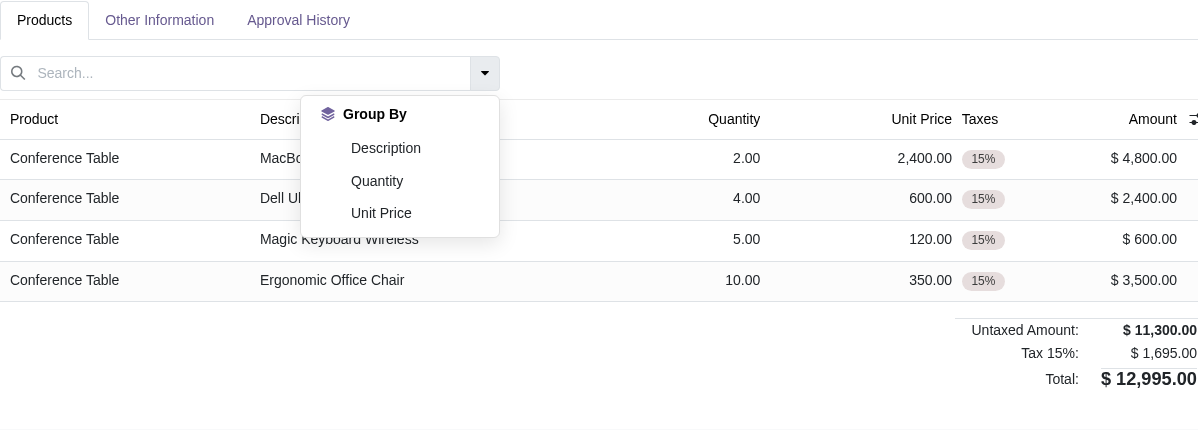
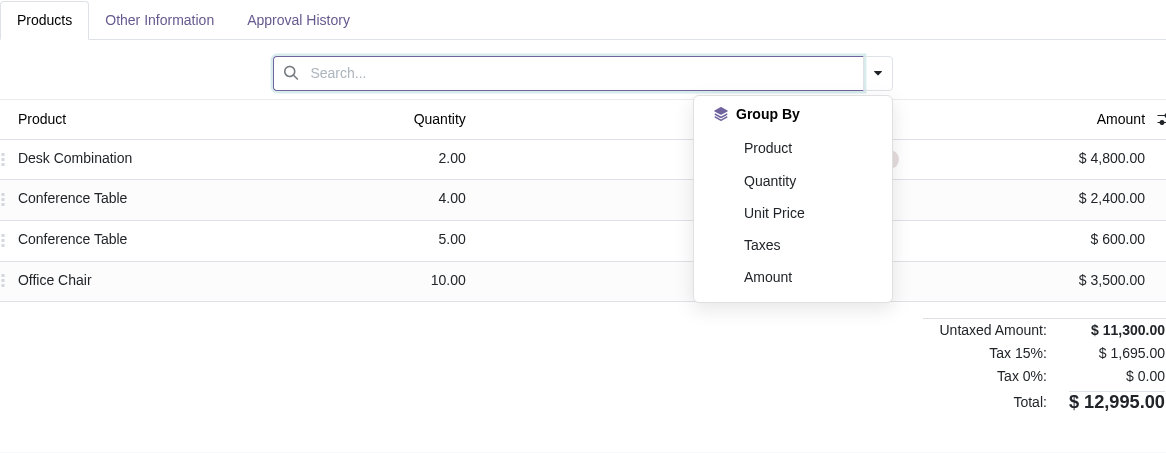
[DOC] ae_x2many_search: update screenshots, description index.html, and README.rst
- Recapture all 4 UI description screenshots (main_screenshot, search_bar,
  group_by, section_note) reflecting the centered search bar, dynamic
  optional columns sync, and clean relational grouping labels.
- Update static/description/index.html to highlight the centered control
  panel layout, automatic visible column discovery, and dynamic sync.
- Update README.rst with centered layout documentation, comma-separated
  and list options, dynamic column synchronization, and relational object
  display name handling.

diff --git a/ae_x2many_search/static/description/index.html b/ae_x2many_search/static/description/index.html
@@ -29,7 +29,7 @@
         <h2 class="oe_slogan fw-bold" style="color:#017e84;">X2many Search Bar</h2>
         <h3 class="oe_slogan">
             Instantly search, filter and group records inside any
-            <code>one2many</code> or <code>many2many</code> list — no page reload needed.
+            <code>one2many</code> or <code>many2many</code> list — with centered search bar and zero server round-trips.
         </h3>
         <div class="oe_demo oe_picture oe_screenshot mt-4">
             <img src="images/main_screenshot.png" alt="X2many Search Bar overview" class="oe_screenshot"/>
@@ -54,7 +54,7 @@
                     <h4 class="mt-3"><strong>Smart Search</strong></h4>
                     <p class="text-secondary text-justify">
                         Type a keyword and pick a field from the dropdown to scope the search.
-                        Matched records appear instantly with a facet chip in the search bar.
+                        Matched records appear instantly with a facet chip in the centered search bar.
                         Search across <em>Char</em>, <em>Text</em>, <em>Many2one</em>, numbers and more.
                     </p>
                 </div>
@@ -66,20 +66,20 @@
                     <h4 class="mt-3"><strong>Client-side Group By</strong></h4>
                     <p class="text-secondary text-justify">
                         Click the caret button next to the search bar to open the Group By menu.
-                        Records are sorted, grouped and collapsed by default so you can focus
-                        on the groups that matter. Click any group header to expand or collapse it.
+                        Records are sorted and grouped by visible fields with clean display names
+                        and collapsed accordions. Click any header to expand or collapse.
                     </p>
                 </div>
             </div>
 
             <div class="col-md-4 text-center">
                 <div class="p-3">
-                    <span class="fa fa-tags fa-3x" style="color:#017e84;"></span>
-                    <h4 class="mt-3"><strong>Ordered Facets</strong></h4>
+                    <span class="fa fa-sliders fa-3x" style="color:#017e84;"></span>
+                    <h4 class="mt-3"><strong>Auto-Sync Columns</strong></h4>
                     <p class="text-secondary text-justify">
-                        Active filter and group-by chips appear as Odoo-style facets in
-                        insertion order. Remove any facet by clicking <strong>×</strong> or
-                        by pressing <kbd>Backspace</kbd> on an empty input.
+                        Automatically discovers all visible columns in the list view if <code>search_fields</code>
+                        is omitted. Dynamically syncs search suggestions and Group By fields in real time
+                        as optional columns are toggled.
                     </p>
                 </div>
             </div>
@@ -95,13 +95,13 @@
         <div class="row align-items-center g-4">
             <div class="col-lg-6">
                 <h2 class="oe_slogan fw-bold" style="color:#017e84; text-align:left;">
-                    Odoo-style search panel
+                    Centered Odoo-style search panel
                 </h2>
                 <h4 class="text-muted mb-3">
-                    Familiar UX — zero learning curve
+                    Balanced layout &amp; familiar UX
                 </h4>
                 <p class="text-secondary text-justify">
-                    The search bar looks and behaves exactly like the native Odoo search panel.
+                    The search bar is centered directly in the control panel with responsive width.
                     Typing a query opens a <em>Search by</em> dropdown listing all searchable fields.
                     Select a field (or press <kbd>Enter</kbd>) to commit the search as a coloured
                     facet chip. Use <kbd>↓</kbd> / <kbd>↑</kbd> to navigate suggestions and
@@ -218,10 +218,11 @@
                     <h5><i class="fa fa-cog me-2" style="color:#017e84;"></i>Options</h5>
                     <ul class="text-secondary">
                         <li>
-                            <strong><code>search_fields</code></strong> <em>(list, optional)</em> —
+                            <strong><code>search_fields</code></strong> <em>(list or string, optional)</em> —
                             field names to search and group by. Matched case-insensitively as substrings.
-                            For <code>many2one</code> fields the display name is used.
-                            If omitted, all visible columns are used automatically.
+                            For <code>many2one</code> and relational fields the display name is used.
+                            If omitted or empty, all visible columns in the list view are used automatically
+                            and dynamically synchronize as optional columns are toggled.
                         </li>
                     </ul>
                 </div>

diff --git a/ae_x2many_search/README.rst b/ae_x2many_search/README.rst
@@ -12,17 +12,14 @@ list views inside notebook pages.
 Features
 --------
 
-- **Search bar** with field-scoped filtering — type a query, pick a field from the dropdown,
-  and only matching records are shown.
-- **Group By** menu — group records client-side by any configured field, with
-  collapse/expand per group.
-- Both features work simultaneously; active filter/group chips are shown as **facets**
-  ordered by insertion (whichever was applied first appears first).
-- Zero server round-trips — all filtering and grouping happen on already-loaded records.
-- Full compatibility with all standard ``one2many`` / ``many2many`` widget options.
-- **Section & Note support** — when the ``account`` module is installed, the widget
-  automatically inherits the section/note behaviour of Purchase Orders, Sales Orders and Invoices
-  (no extra module or configuration required).
+- **Centered Search Bar** — modern 3-column control panel layout (left action buttons, centered wide search bar, right pager) with responsive sizing.
+- **Smart Field-Scoped Search** — type a query, pick a field from the dropdown, and only matching records are shown with facet chips.
+- **Auto-Discovery of Visible Columns** — if ``search_fields`` is not configured, the widget automatically detects and uses all visible columns in the list view (skipping handle and invisible technical fields).
+- **Dynamic Optional Column Sync** — toggling optional columns on/off in the list view header immediately updates the available search suggestions and Group By fields in real time.
+- **Client-Side Group By** — group records by any visible or configured field, complete with collapse/expand accordions, count badges, and clean relational display names.
+- **Facets in Insertion Order** — active filters and group-by chips appear as standard Odoo-style facets in chronological order.
+- **Zero Server Round-Trips** — all filtering, grouping, and toggling happen entirely on client-side loaded records.
+- **Section & Note Support** — automatically integrates with Odoo line-item architectures including ``product_label_section_and_note_field_o2m`` (Odoo 19) and ``section_and_note_one2many`` (Odoo 18/17) without hard dependencies.
 
 .. image:: static/description/images/section_note.png
    :alt: Section and note support with grouped rows
@@ -40,10 +37,10 @@ the searchable/groupable fields via ``search_fields``::
 Options
 -------
 
-``search_fields`` (list, optional)
-    Names of the fields to search and group by. Values are matched case-insensitively
-    as substrings. For ``many2one`` fields the display name is used.
-    If omitted, all columns visible in the list view are used automatically.
+``search_fields`` (list or comma-separated string, optional)
+    Names of the fields to search and group by (e.g. ``['name', 'product_qty']`` or ``"name, product_qty"``).
+    Values are matched case-insensitively as substrings. For ``many2one`` and relational fields, the display name is used.
+    If omitted or empty, all columns currently visible in the list view are used automatically and sync dynamically as optional columns are toggled.
 
 Search Bar — Behaviour
 ----------------------
@@ -93,6 +90,7 @@ Technical
 ---------
 
 - ``X2ManySearchField`` — extends ``X2ManyField``; manages search/group state,
+  dynamic optional field synchronization (``onOptionalActiveFieldsChanged``),
   caches filtered/sorted record proxies, and passes ``groupField``, ``collapsedGroups``,
   ``groupCounts``, and ``onToggleGroup`` as props to the renderer.
 - ``makeSearchListRenderer(Base)`` — factory that produces a search-aware list
@@ -101,8 +99,10 @@ Technical
   (``ae_x2many_search.ListRenderer.Rows``) injects group header rows directly
   inside the native ``<tbody>`` render loop without extra component instances.
 - Section/note is wired **without a hard dependency** on ``account``: the widget
-  listens on the ``fields`` registry and, once ``section_and_note_one2many`` is
-  registered, rebuilds its list renderer from that base and detaches the listener.
+  checks the ``fields`` registry for both ``product_label_section_and_note_field_o2m`` (Odoo 19)
+  and ``section_and_note_one2many`` (Odoo 18/17), rebuilding its list renderer dynamically.
+- Relational fields (e.g. ``many2one`` objects ``{ id, display_name }``) are handled natively
+  by ``getFieldStringValue`` for both string search and clean group header labels.
 - Proxy objects are ``markRaw``-wrapped to prevent OWL reactivity loops.
 - Sort and filter results are cached by key and only recomputed when the underlying
   records or active query/field change.
